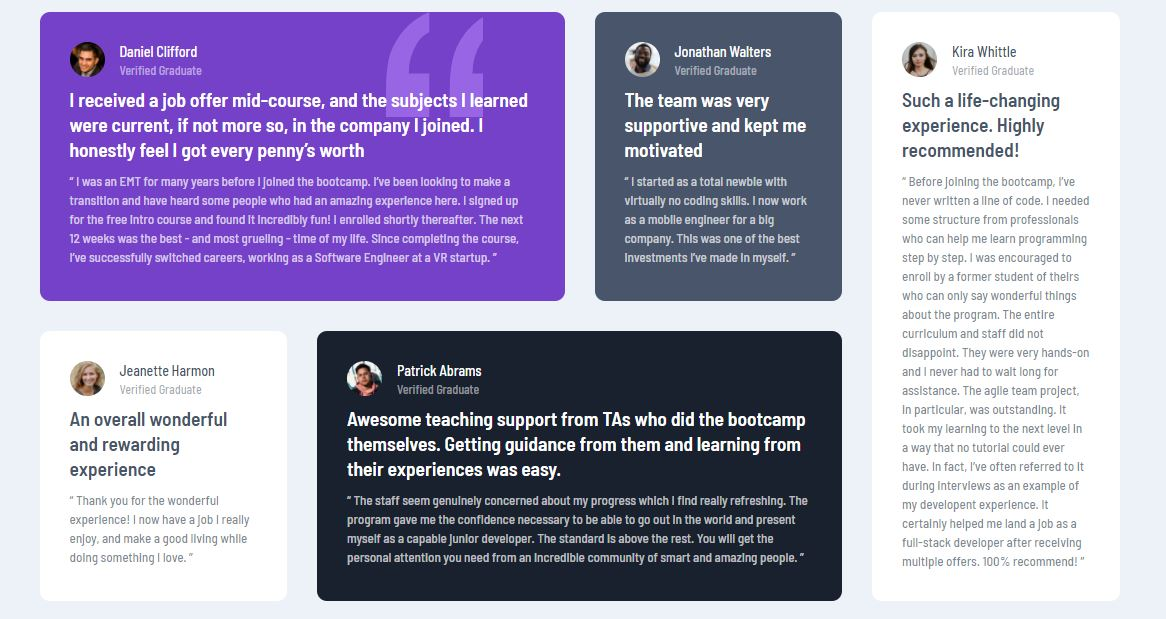
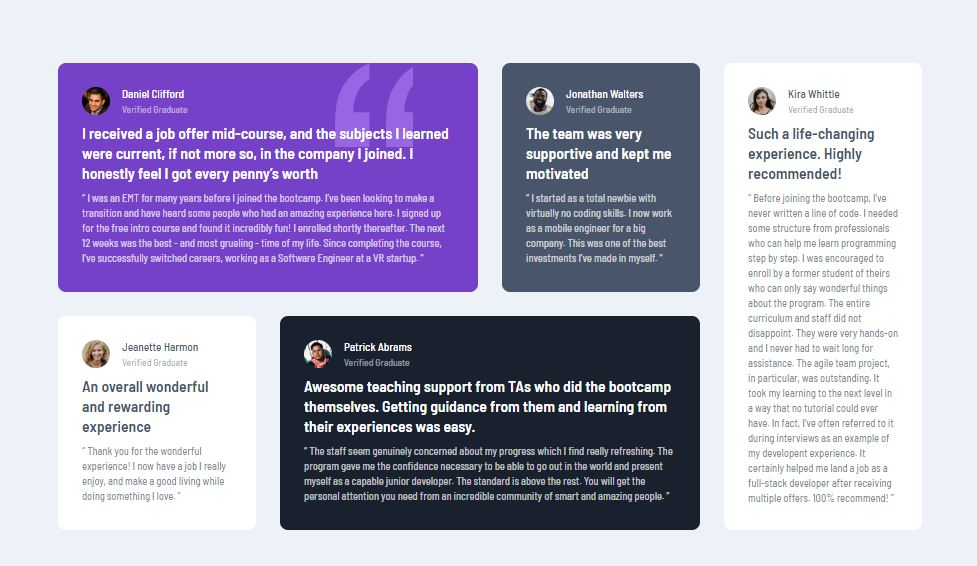
Changed screeshot

diff --git a/scss/globals/_boilerplate.scss b/scss/globals/_boilerplate.scss
@@ -19,6 +19,6 @@ body {
     font-size: 1.3rem;
     color: var(--white);
     height: auto;
-    margin: 5rem 1rem;
+    margin: 8rem 1rem 0 ;
 }
 

diff --git a/dist/style.css b/dist/style.css
@@ -29,7 +29,7 @@ body {
   font-size: 1.3rem;
   color: var(--white);
   height: auto;
-  margin: 5rem 1rem;
+  margin: 8rem 1rem 0;
 }
 
 .grid {
